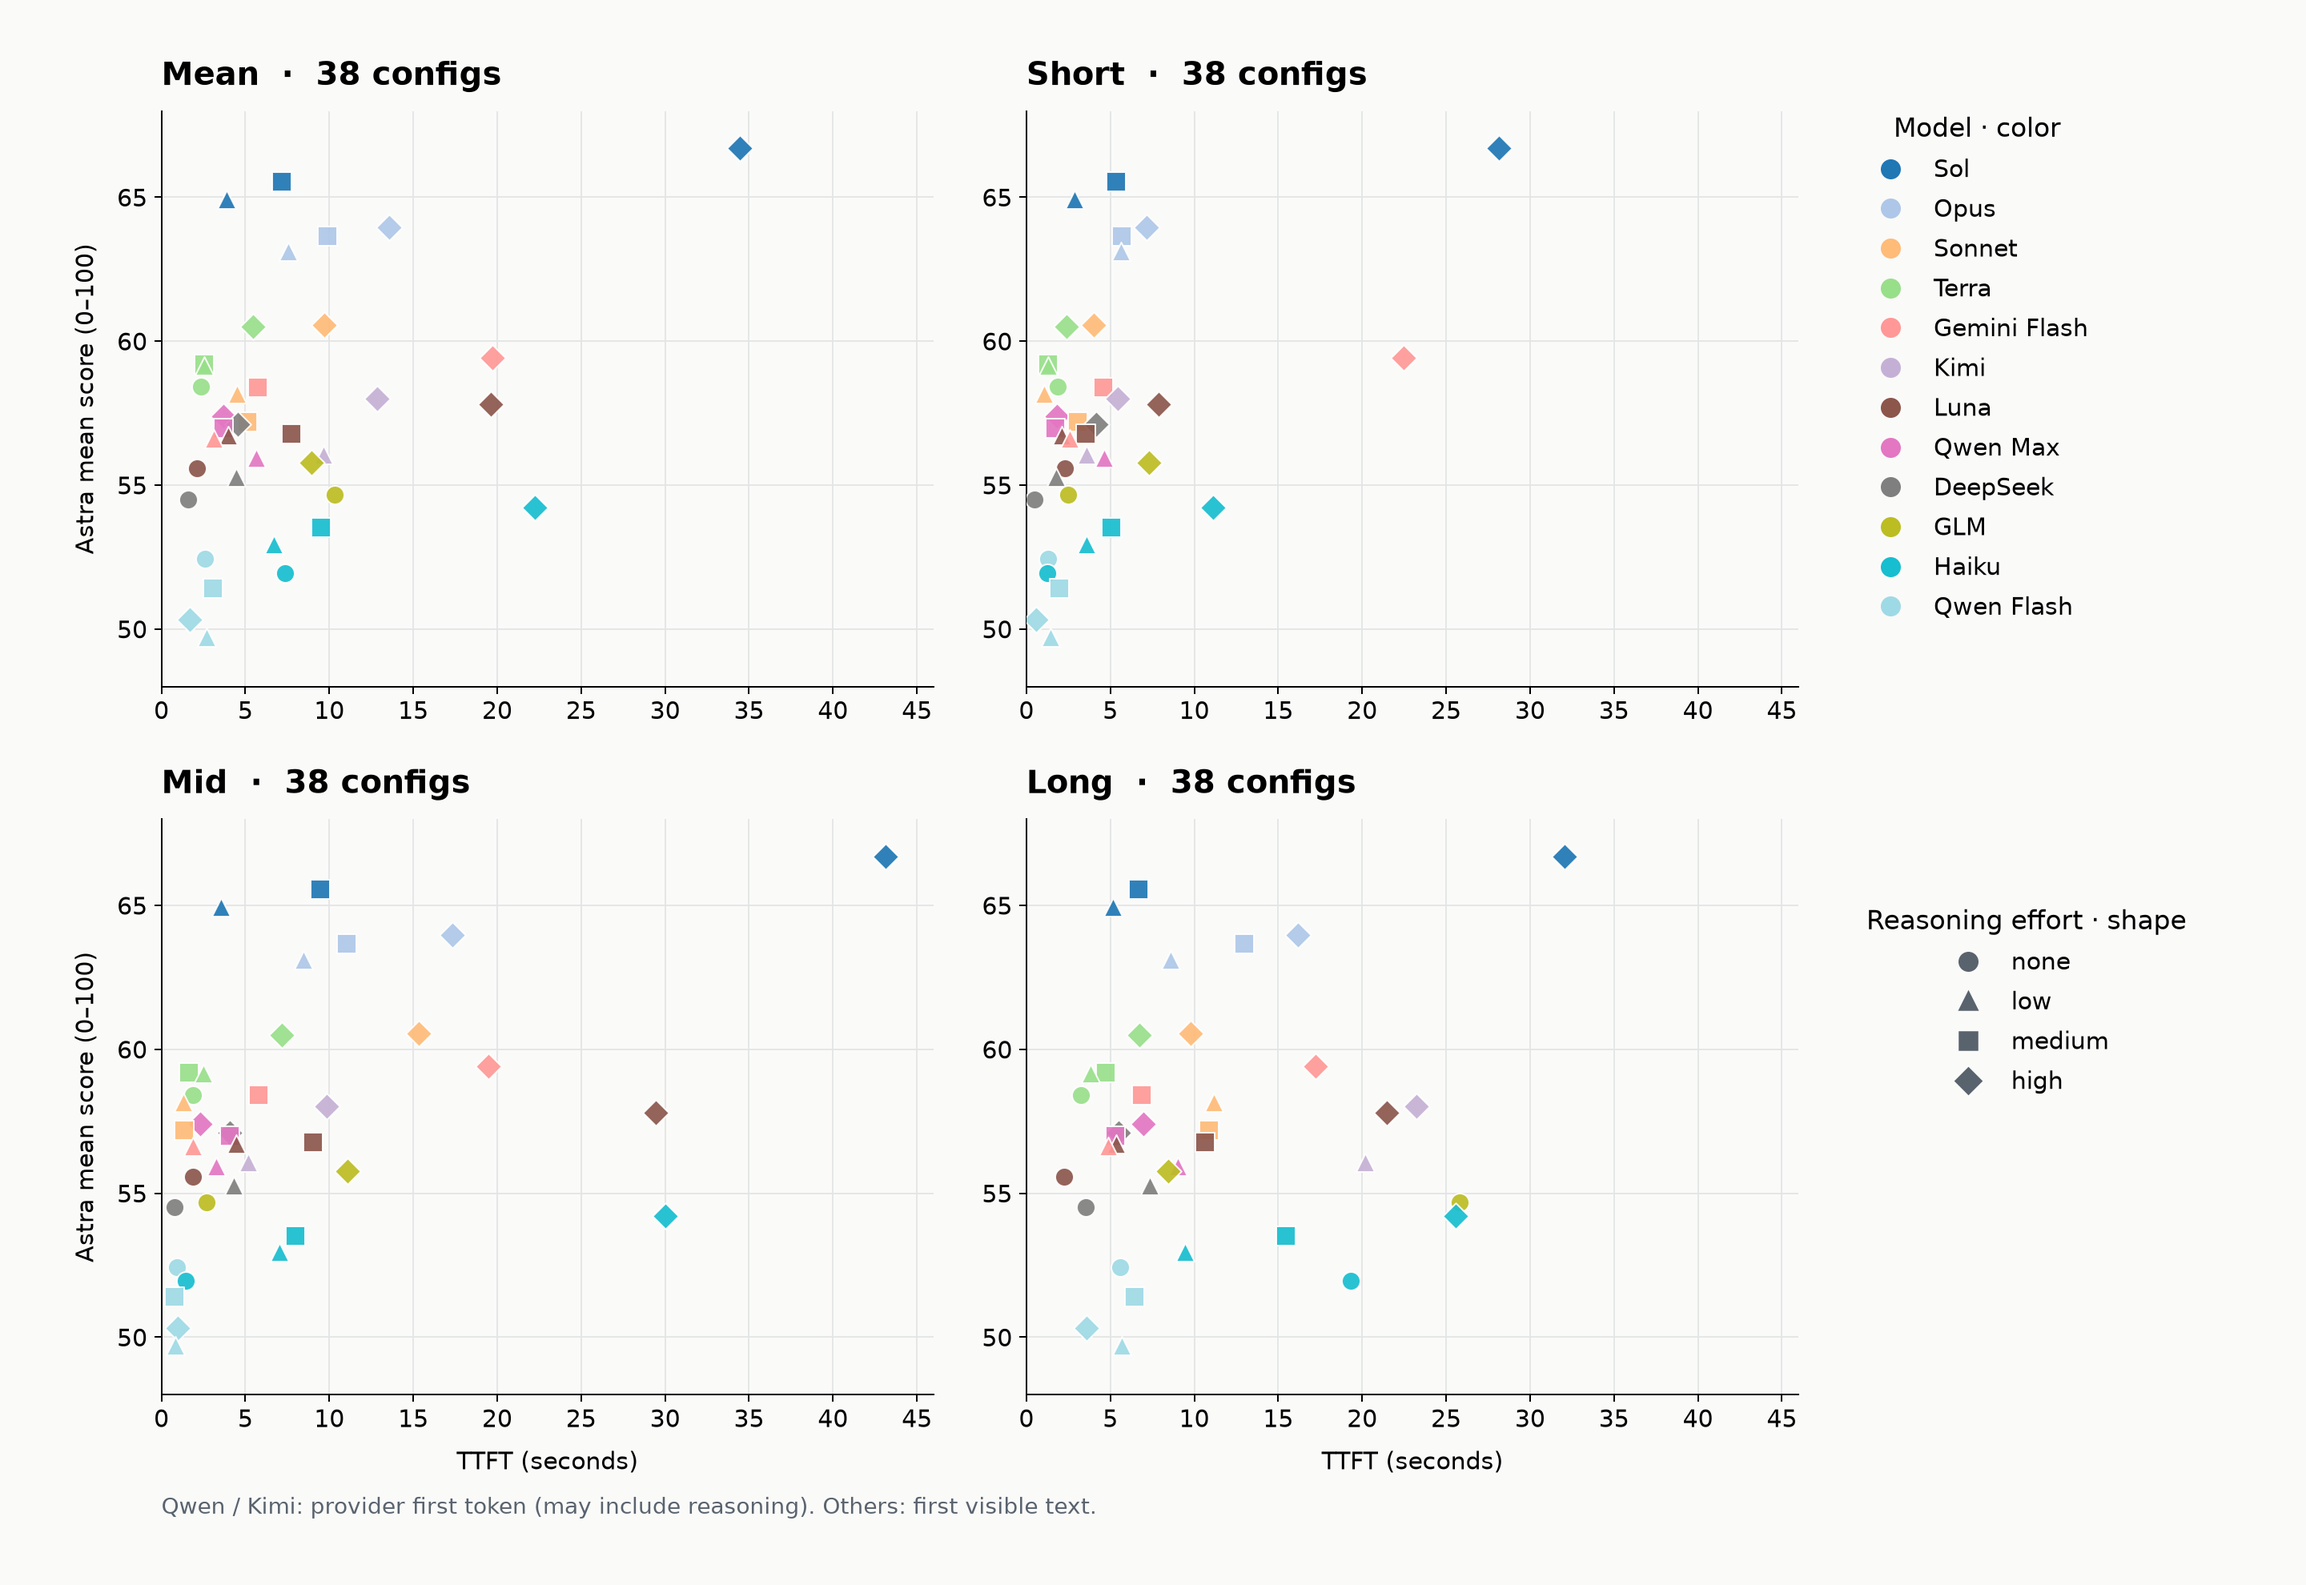
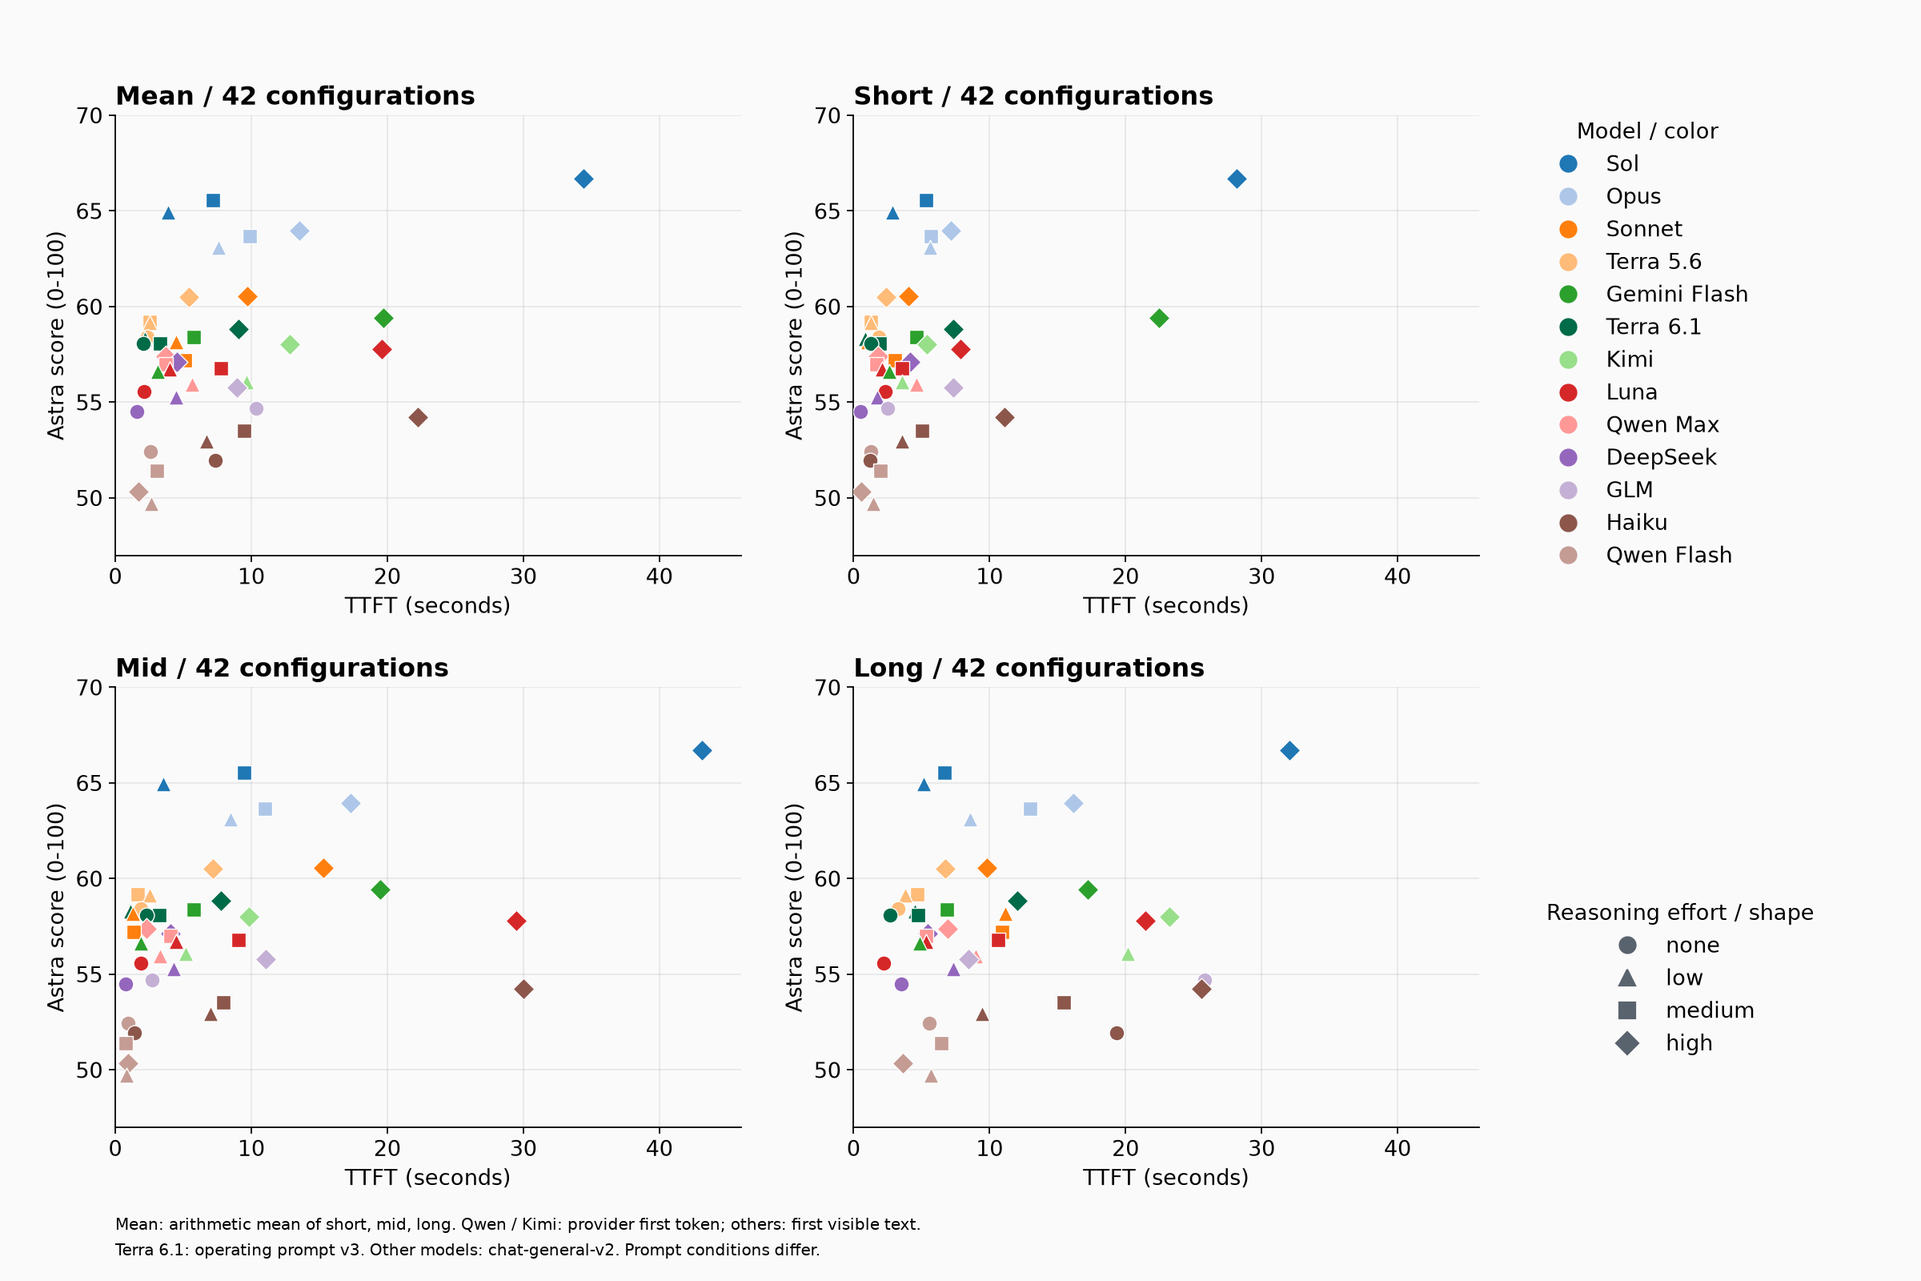
[KNK-1932] Docs: GPT-6.1 Terra 그리드 서치 대상과 채팅 평가 결과 반영

diff --git a/docs/domain/CHAT/AI/6-6-AI-PERFORMANCE-REPORT.md b/docs/domain/CHAT/AI/6-6-AI-PERFORMANCE-REPORT.md
@@ -106,33 +106,37 @@
 | 9 | `gemini-3.8-flash / high` | 59.41 | 59.53<br>59.47<br>59.22 | 19.73 | 22.48 | 19.50 | 17.22 | $0.02715 | 36.52원 |
 | 10 | `gpt-5.6-terra / medium` | 59.19 | 59.25<br>58.90<br>59.41 | 2.54 | 1.28 | 1.64 | 4.71 | $0.04811 | 64.71원 |
 | 11 | `gpt-5.6-terra / low` | 59.15 | 59.42<br>58.95<br>59.08 | 2.53 | 1.28 | 2.51 | 3.81 | $0.04687 | 63.04원 |
-| 12 | `gpt-5.6-terra / none` | 58.41 | 58.05<br>58.86<br>58.32 | 2.34 | 1.88 | 1.87 | 3.26 | $0.04282 | 57.59원 |
-| 13 | `gemini-3.8-flash / medium` | 58.40 | 58.25<br>58.71<br>58.24 | 5.75 | 4.60 | 5.79 | 6.87 | $0.01802 | 24.24원 |
-| 14 | `claude-sonnet-5-5 / low` | 58.17 | 58.03<br>58.08<br>58.39 | 4.50 | 1.05 | 1.32 | 11.15 | $0.06825 | 91.79원 |
-| 15 | `kimi-k3 / high` | 58.01 | 57.73<br>58.15<br>58.15 | 12.83 | 5.42 | 9.84 | 23.24 | $0.08675 | 116.68원 |
-| 16 | `gpt-6-luna / high` | 57.80 | 57.61<br>57.92<br>57.88 | 19.60 | 7.86 | 29.46 | 21.48 | $0.00299 | 4.02원 |
-| 17 | `qwen3.8-max / high` | 57.40 | 57.32<br>57.25<br>57.63 | 3.69 | 1.83 | 2.29 | 6.95 | $0.07490 | 100.74원 |
-| 18 | `claude-sonnet-5-5 / medium` | 57.20 | 57.02<br>57.20<br>57.37 | 5.11 | 3.06 | 1.35 | 10.90 | $0.07044 | 94.74원 |
-| 19 | `deepseek-flash / high` | 57.11 | 57.25<br>57.19<br>56.88 | 4.56 | 4.15 | 4.05 | 5.47 | $0.00930<br>$0.00465 | 12.51원<br>6.25원 |
-| 20 | `qwen3.8-max / medium` | 56.99 | 56.97<br>57.02<br>57.00 | 3.70 | 1.70 | 4.07 | 5.32 | $0.03808 | 51.22원 |
-| 21 | `gpt-6-luna / medium` | 56.78 | 56.83<br>56.95<br>56.56 | 7.75 | 3.55 | 9.04 | 10.65 | $0.00251 | 3.37원 |
-| 22 | `gpt-6-luna / low` | 56.72 | 56.88<br>56.44<br>56.83 | 3.98 | 2.12 | 4.47 | 5.36 | $0.00216 | 2.90원 |
-| 23 | `gemini-3.8-flash / low` | 56.62 | 56.76<br>56.49<br>56.59 | 3.10 | 2.60 | 1.86 | 4.86 | $0.01443 | 19.41원 |
-| 24 | `kimi-k3 / low` | 56.07 | 56.19<br>55.88<br>56.15 | 9.64 | 3.59 | 5.18 | 20.16 | $0.08412 | 113.14원 |
-| 25 | `qwen3.8-max / low` | 55.95 | 56.17<br>56.24<br>55.44 | 5.64 | 4.63 | 3.27 | 9.01 | $0.03728 | 50.15원 |
-| 26 | `glm-5.2 / high` | 55.77 | 55.92<br>55.51<br>55.88 | 8.95 | 7.32 | 11.08 | 8.46 | $0.03644 | 49.01원 |
-| 27 | `gpt-6-luna / none` | 55.58 | 55.64<br>55.47<br>55.63 | 2.14 | 2.31 | 1.87 | 2.23 | $0.00202 | 2.72원 |
-| 28 | `deepseek-flash / low` | 55.27 | 55.14<br>55.49<br>55.19 | 4.46 | 1.75 | 4.30 | 7.33 | $0.00775<br>$0.00387 | 10.42원<br>5.21원 |
-| 29 | `glm-5.2 / none` | 54.68 | 54.54<br>54.88<br>54.63 | 10.34 | 2.50 | 2.71 | 25.81 | $0.03531 | 47.49원 |
-| 30 | `deepseek-flash / none` | 54.51 | 54.37<br>54.22<br>54.95 | 1.60 | 0.50 | 0.78 | 3.53 | $0.00669<br>$0.00334 | 8.99원<br>4.50원 |
-| 31 | `claude-haiku-5-5 / high` | 54.22 | 54.39<br>54.12<br>54.15 | 22.24 | 11.11 | 30.04 | 25.58 | $0.00823 | 11.07원 |
-| 32 | `claude-haiku-5-5 / medium` | 53.53 | 53.54<br>53.58<br>53.47 | 9.50 | 5.06 | 7.97 | 15.46 | $0.00735 | 9.89원 |
-| 33 | `claude-haiku-5-5 / low` | 52.95 | 53.25<br>52.92<br>52.69 | 6.68 | 3.59 | 7.01 | 9.45 | $0.00673 | 9.06원 |
-| 34 | `qwen3.8-flash / none` | 52.44 | 52.39<br>52.53<br>52.39 | 2.59 | 1.28 | 0.93 | 5.57 | $0.00253 | 3.41원 |
-| 35 | `claude-haiku-5-5 / none` | 51.95 | 51.80<br>52.02<br>52.03 | 7.34 | 1.24 | 1.44 | 19.33 | $0.00674 | 9.06원 |
-| 36 | `qwen3.8-flash / medium` | 51.41 | 51.22<br>51.49<br>51.51 | 3.06 | 1.96 | 0.78 | 6.44 | $0.00528 | 7.11원 |
-| 37 | `qwen3.8-flash / high` | 50.33 | 49.92<br>50.66<br>50.42 | 1.71 | 0.57 | 0.97 | 3.60 | $0.00541 | 7.27원 |
-| 38 | `qwen3.8-flash / low` | 49.72 | 49.73<br>49.75<br>49.68 | 2.67 | 1.45 | 0.85 | 5.70 | $0.00515 | 6.92원 |
+| 12 | `gpt-6.1-terra / high` | 58.83 | 58.59<br>59.22<br>58.68 | 9.05 | 7.36 | 7.76 | 12.02 | $0.02221 | 29.87원 |
+| 13 | `gpt-5.6-terra / none` | 58.41 | 58.05<br>58.86<br>58.32 | 2.34 | 1.88 | 1.87 | 3.26 | $0.04282 | 57.59원 |
+| 14 | `gemini-3.8-flash / medium` | 58.40 | 58.25<br>58.71<br>58.24 | 5.75 | 4.60 | 5.79 | 6.87 | $0.01802 | 24.24원 |
+| 15 | `gpt-6.1-terra / low` | 58.31 | 58.03<br>58.51<br>58.37 | 2.18 | 0.89 | 1.13 | 4.53 | $0.01975 | 26.56원 |
+| 16 | `claude-sonnet-5-5 / low` | 58.17 | 58.03<br>58.08<br>58.39 | 4.50 | 1.05 | 1.32 | 11.15 | $0.06825 | 91.79원 |
+| 17 | `gpt-6.1-terra / medium` | 58.09 | 58.12<br>58.03<br>58.12 | 3.30 | 1.94 | 3.24 | 4.73 | $0.02021 | 27.18원 |
+| 18 | `gpt-6.1-terra / none` | 58.08 | 58.29<br>57.75<br>58.22 | 2.08 | 1.28 | 2.28 | 2.67 | $0.01971 | 26.51원 |
+| 19 | `kimi-k3 / high` | 58.01 | 57.73<br>58.15<br>58.15 | 12.83 | 5.42 | 9.84 | 23.24 | $0.08675 | 116.68원 |
+| 20 | `gpt-6-luna / high` | 57.80 | 57.61<br>57.92<br>57.88 | 19.60 | 7.86 | 29.46 | 21.48 | $0.00299 | 4.02원 |
+| 21 | `qwen3.8-max / high` | 57.40 | 57.32<br>57.25<br>57.63 | 3.69 | 1.83 | 2.29 | 6.95 | $0.07490 | 100.74원 |
+| 22 | `claude-sonnet-5-5 / medium` | 57.20 | 57.02<br>57.20<br>57.37 | 5.11 | 3.06 | 1.35 | 10.90 | $0.07044 | 94.74원 |
+| 23 | `deepseek-flash / high` | 57.11 | 57.25<br>57.19<br>56.88 | 4.56 | 4.15 | 4.05 | 5.47 | $0.00930<br>$0.00465 | 12.51원<br>6.25원 |
+| 24 | `qwen3.8-max / medium` | 56.99 | 56.97<br>57.02<br>57.00 | 3.70 | 1.70 | 4.07 | 5.32 | $0.03808 | 51.22원 |
+| 25 | `gpt-6-luna / medium` | 56.78 | 56.83<br>56.95<br>56.56 | 7.75 | 3.55 | 9.04 | 10.65 | $0.00251 | 3.37원 |
+| 26 | `gpt-6-luna / low` | 56.72 | 56.88<br>56.44<br>56.83 | 3.98 | 2.12 | 4.47 | 5.36 | $0.00216 | 2.90원 |
+| 27 | `gemini-3.8-flash / low` | 56.62 | 56.76<br>56.49<br>56.59 | 3.10 | 2.60 | 1.86 | 4.86 | $0.01443 | 19.41원 |
+| 28 | `kimi-k3 / low` | 56.07 | 56.19<br>55.88<br>56.15 | 9.64 | 3.59 | 5.18 | 20.16 | $0.08412 | 113.14원 |
+| 29 | `qwen3.8-max / low` | 55.95 | 56.17<br>56.24<br>55.44 | 5.64 | 4.63 | 3.27 | 9.01 | $0.03728 | 50.15원 |
+| 30 | `glm-5.2 / high` | 55.77 | 55.92<br>55.51<br>55.88 | 8.95 | 7.32 | 11.08 | 8.46 | $0.03644 | 49.01원 |
+| 31 | `gpt-6-luna / none` | 55.58 | 55.64<br>55.47<br>55.63 | 2.14 | 2.31 | 1.87 | 2.23 | $0.00202 | 2.72원 |
+| 32 | `deepseek-flash / low` | 55.27 | 55.14<br>55.49<br>55.19 | 4.46 | 1.75 | 4.30 | 7.33 | $0.00775<br>$0.00387 | 10.42원<br>5.21원 |
+| 33 | `glm-5.2 / none` | 54.68 | 54.54<br>54.88<br>54.63 | 10.34 | 2.50 | 2.71 | 25.81 | $0.03531 | 47.49원 |
+| 34 | `deepseek-flash / none` | 54.51 | 54.37<br>54.22<br>54.95 | 1.60 | 0.50 | 0.78 | 3.53 | $0.00669<br>$0.00334 | 8.99원<br>4.50원 |
+| 35 | `claude-haiku-5-5 / high` | 54.22 | 54.39<br>54.12<br>54.15 | 22.24 | 11.11 | 30.04 | 25.58 | $0.00823 | 11.07원 |
+| 36 | `claude-haiku-5-5 / medium` | 53.53 | 53.54<br>53.58<br>53.47 | 9.50 | 5.06 | 7.97 | 15.46 | $0.00735 | 9.89원 |
+| 37 | `claude-haiku-5-5 / low` | 52.95 | 53.25<br>52.92<br>52.69 | 6.68 | 3.59 | 7.01 | 9.45 | $0.00673 | 9.06원 |
+| 38 | `qwen3.8-flash / none` | 52.44 | 52.39<br>52.53<br>52.39 | 2.59 | 1.28 | 0.93 | 5.57 | $0.00253 | 3.41원 |
+| 39 | `claude-haiku-5-5 / none` | 51.95 | 51.80<br>52.02<br>52.03 | 7.34 | 1.24 | 1.44 | 19.33 | $0.00674 | 9.06원 |
+| 40 | `qwen3.8-flash / medium` | 51.41 | 51.22<br>51.49<br>51.51 | 3.06 | 1.96 | 0.78 | 6.44 | $0.00528 | 7.11원 |
+| 41 | `qwen3.8-flash / high` | 50.33 | 49.92<br>50.66<br>50.42 | 1.71 | 0.57 | 0.97 | 3.60 | $0.00541 | 7.27원 |
+| 42 | `qwen3.8-flash / low` | 49.72 | 49.73<br>49.75<br>49.68 | 2.67 | 1.45 | 0.85 | 5.70 | $0.00515 | 6.92원 |
 
 <br>
 

diff --git a/docs/domain/CHAT/AI/6-3-AI-ALIGNMENT.md b/docs/domain/CHAT/AI/6-3-AI-ALIGNMENT.md
@@ -52,6 +52,7 @@ flowchart LR
 | OpenAI | `gpt-6-luna` | O | O | O | O |
 | OpenAI | `gpt-6.1-sol` | X | O | O | O |
 | OpenAI | `gpt-5.6-terra` | O | O | O | O |
+| OpenAI | `gpt-6.1-terra` | O | O | O | O |
 | Google | `gemini-3.8-flash` | X | O | O | O |
 
 <br>

diff --git a/docs/domain/STORY/AI/6-3-AI-ALIGNMENT.md b/docs/domain/STORY/AI/6-3-AI-ALIGNMENT.md
@@ -52,6 +52,7 @@ flowchart LR
 | OpenAI | `gpt-6-luna` | O | O | O | O |
 | OpenAI | `gpt-6.1-sol` | X | O | O | O |
 | OpenAI | `gpt-5.6-terra` | O | O | O | O |
+| OpenAI | `gpt-6.1-terra` | O | O | O | O |
 | Google | `gemini-3.8-flash` | X | O | O | O |
 
 <br>
